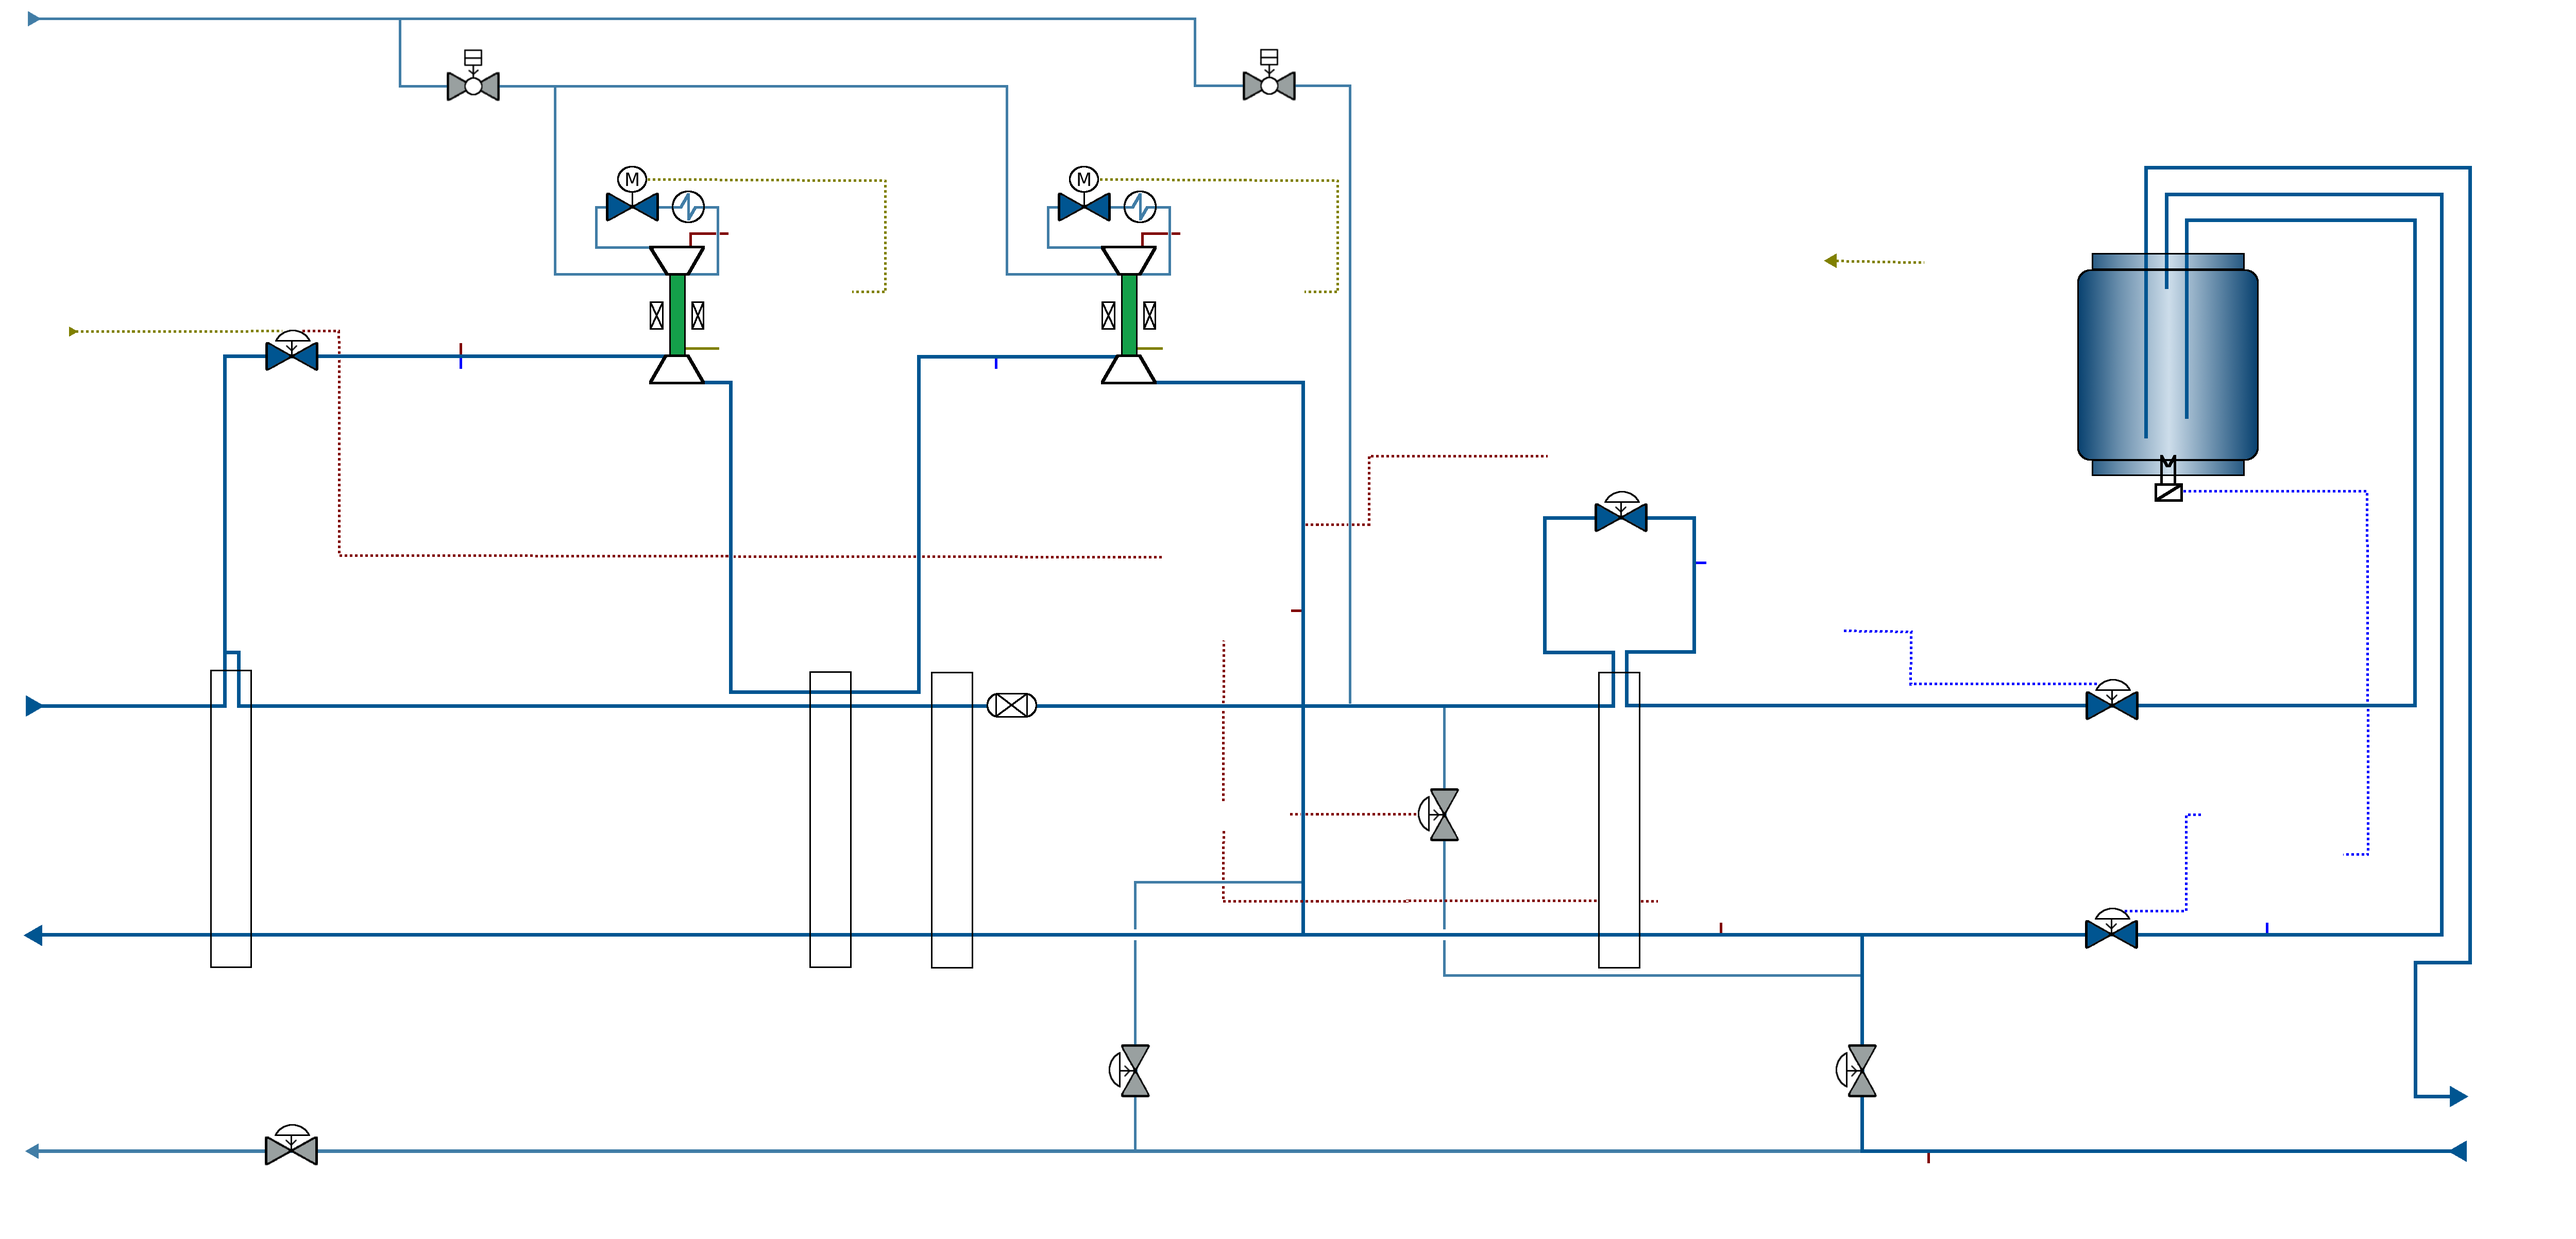
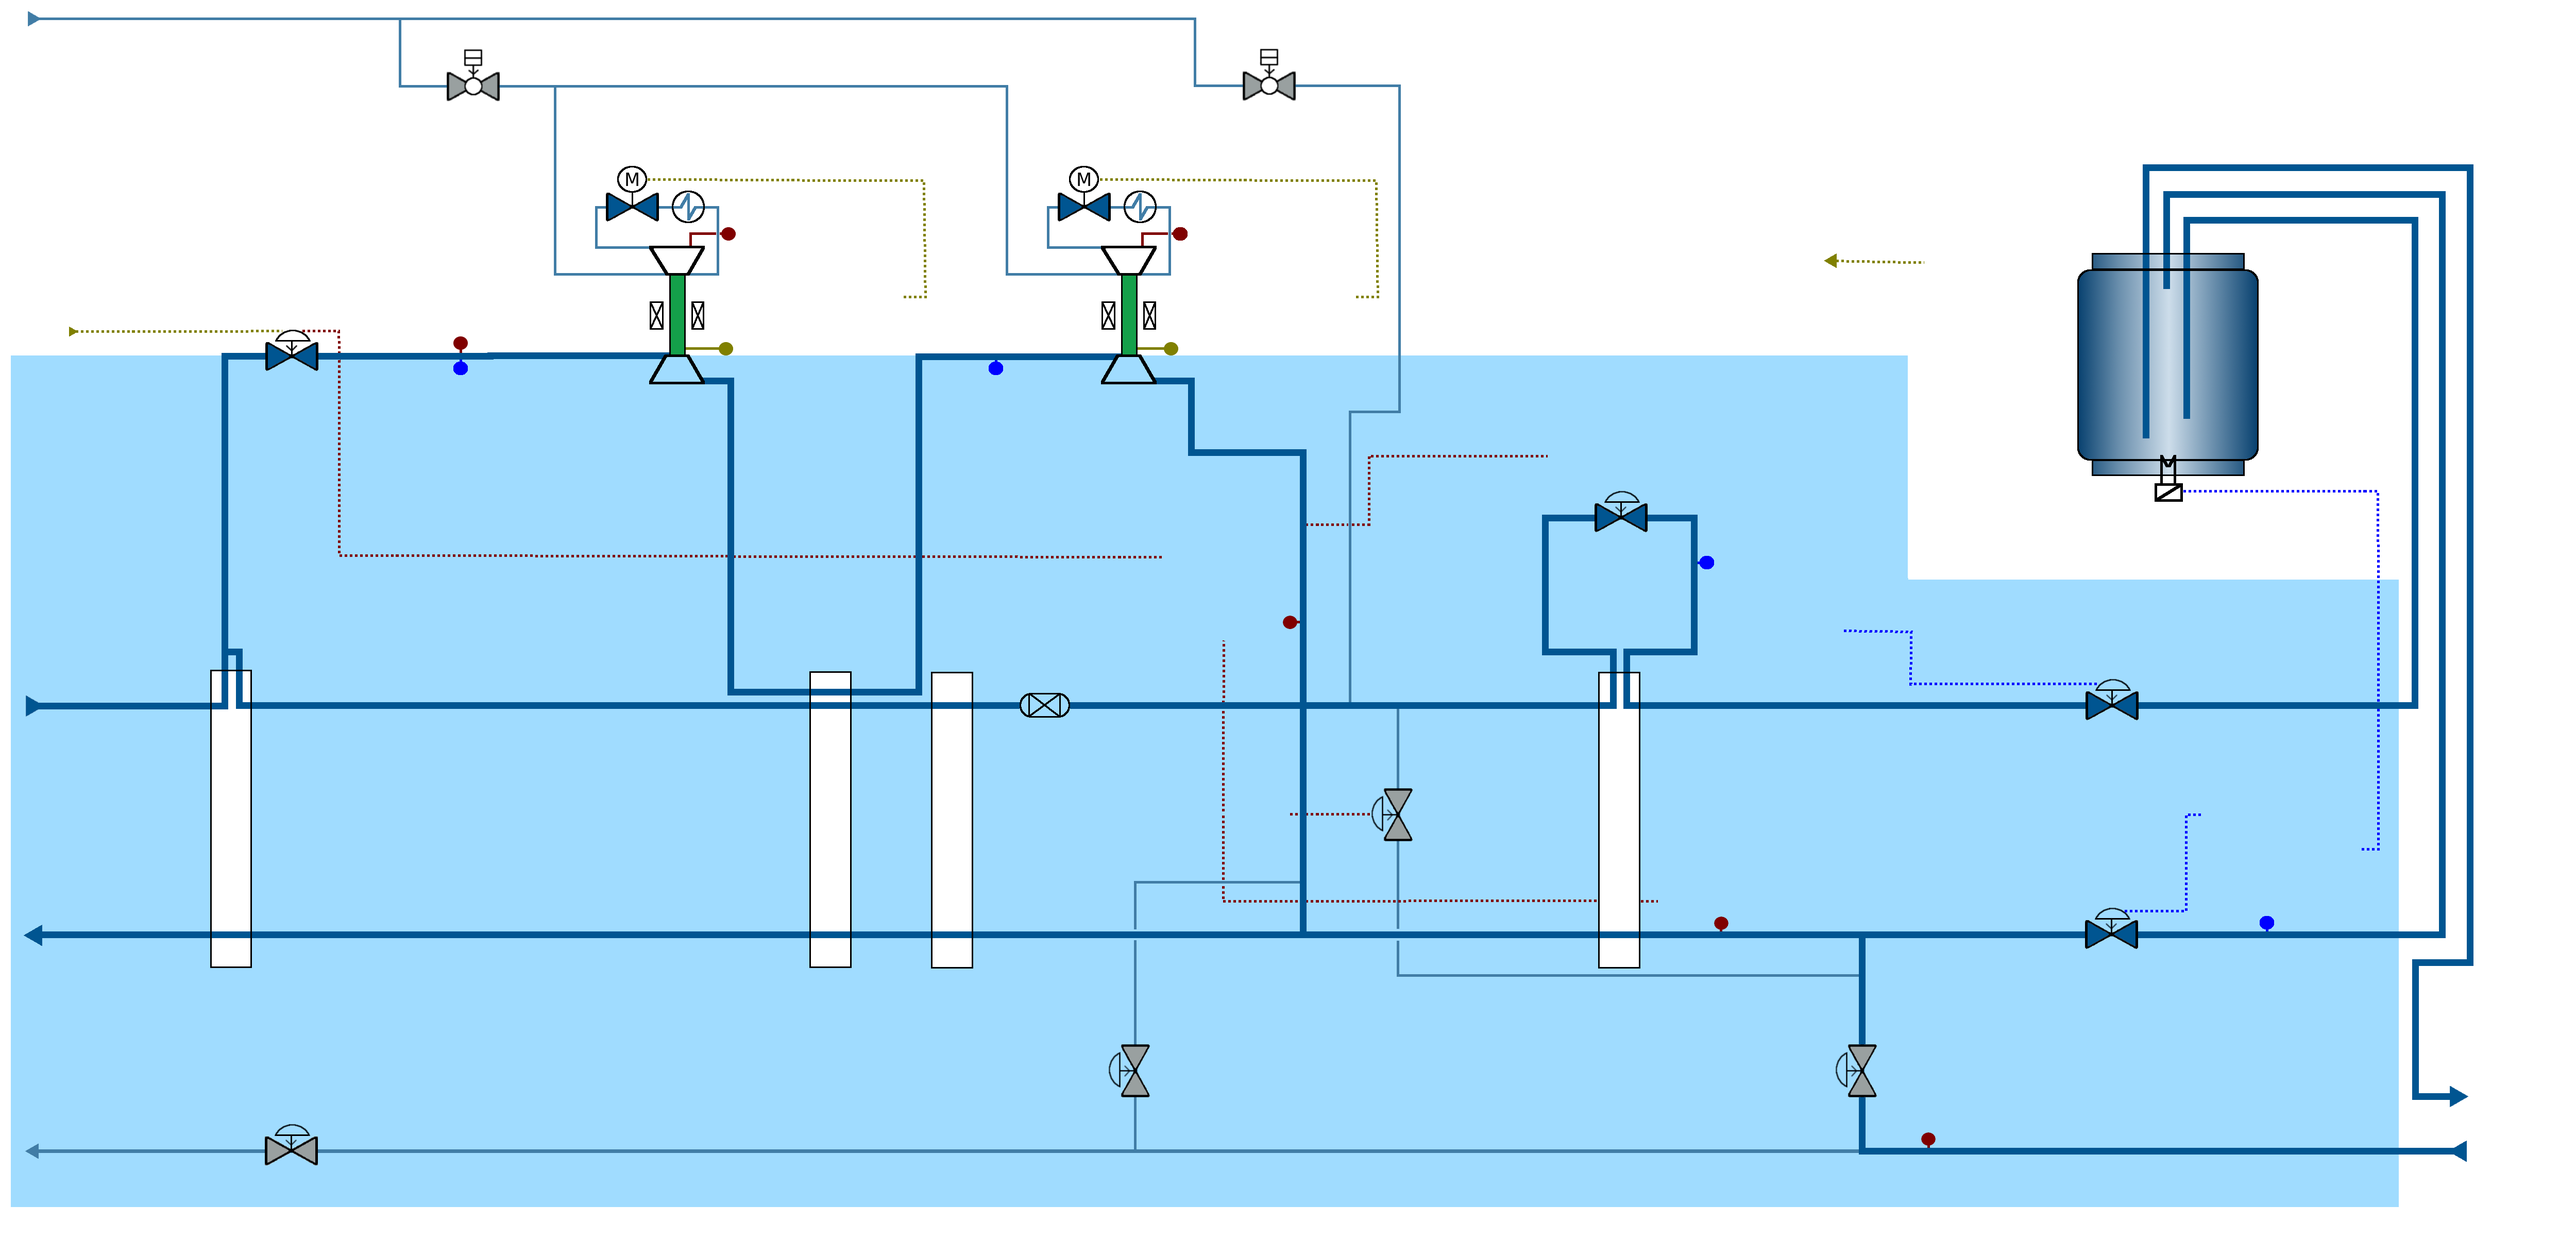
Add CBx 2 Tab to the GUI

diff --git a/pyqt-apps/siriushla/as_cr_control/screen_cbx2.py b/pyqt-apps/siriushla/as_cr_control/screen_cbx2.py
@@ -7,13 +7,13 @@ LABELS_CBX2 = {
     "1552\nCbx1": [0, 70],
     "1228\nCbx1": [0, 87.5],
     "TU1.ML050": [22, 31],
-    "TU2.ML050": [19.75, 19],
-    "AT1.HP050": [19.75, 19],
-    "HP1.010.UPC": [19.75, 19],
-    "LS1.CM015": [19.75, 19],
-    "1921\nMfb": [19.75, 19],
-    "Manifoldbox": [19.75, 19],
-    "1923\nMfb": [19.75, 19],
+    "TU2.ML050": [40.25, 31],
+    "AT1.HP050": [37, 57],
+    "HP1.010.UPC": [67, 17],
+    "LS1.CM015": [80, 9],
+    "1921\nMfb": [93, 85.5],
+    "Manifoldbox": [87, 88],
+    "1923\nMfb": [93, 90],
     "HP1.EQ200": {
         "position": [6.75, 50],
         "shape": "line",
@@ -41,7 +41,7 @@ LABELS_CBX2 = {
     "WP1.QM110": {
         "position": [14, 7.5],
         "shape": "line",
-        "color": COLOR.blue
+        "color": COLOR.dark_blue
     },
     "TU1.050.U.SC": {
         "position": [28, 22],
@@ -51,10 +51,10 @@ LABELS_CBX2 = {
     "WP1.QM010": {
         "position": [45, 7.5],
         "shape": "line",
-        "color": COLOR.blue
+        "color": COLOR.dark_blue
     },
     "TU2.050.U.SC": {
-        "position": [45.5, 22],
+        "position": [45.75, 22],
         "shape": "side_arrows",
         "color": COLOR.gold
     },
@@ -69,29 +69,29 @@ LABELS_CBX2 = {
         "color": COLOR.dark_red
     },
     "TU2.067.U.TDC": {
-        "position": [43, 65],
+        "position": [43, 63.75],
         "shape": "side_arrows",
         "color": COLOR.dark_red
     },
     "HP1.500.U.PC": {
         "position": [66, 49],
         "shape": "side_arrows",
-        "color": COLOR.dark_blue
+        "color": COLOR.blue
     },
     "LS1.010.U.LC": {
-        "position": [16, 75],
+        "position": [73.5, 19.25],
         "shape": "side_arrows",
         "color": COLOR.gold
     },
     "LP1.510.U.PC": {
-        "position": [16, 75],
+        "position": [84.75, 66.5],
         "shape": "side_arrows",
-        "color": COLOR.dark_blue
+        "color": COLOR.blue
     },
     "LP1.511.U.PC": {
-        "position": [16, 75],
+        "position": [84.75, 64],
         "shape": "side_arrows",
-        "color": COLOR.dark_blue
+        "color": COLOR.blue
     }
 }
 
@@ -99,27 +99,27 @@ PVS_CBX2 = {
     "TU1.QN020": {
         "position": [8, 21],
         "pvname": "",
-        "color": COLOR.blue
+        "color": COLOR.dark_blue
     },
     "CD1.QN110": {
         "position": [8, 85],
         "pvname": "",
-        "color": COLOR.blue
+        "color": COLOR.dark_blue
     },
     "TU1.035.T": {
-        "position": [14.5, 22.5],
+        "position": [14.5, 21.75],
         "pvname": "",
         "color": COLOR.dark_red
     },
     "TU1.035.P": {
-        "position": [14.5, 29],
+        "position": [14.5, 29.75],
         "pvname": "",
-        "color": COLOR.dark_blue
+        "color": COLOR.blue
     },
     "TU1.QN050": {
         "position": [21.5, 7.5],
         "pvname": "",
-        "color": COLOR.blue
+        "color": COLOR.dark_blue
     },
     "TU1.050.T": {
         "position": [28.25, 15],
@@ -127,54 +127,54 @@ PVS_CBX2 = {
         "color": COLOR.dark_red
     },
     "TU1.050.S": {
-        "position": [28.25, 26],
+        "position": [28.5, 25.5],
         "pvname": ("",""),
         "color": COLOR.gold
     },
     "TU2.QN050": {
         "position": [39, 7.5],
         "pvname": "",
-        "color": COLOR.blue
-    },
-    "TU2.035.P": {
-        "position": [36, 29],
-        "pvname": "",
         "color": COLOR.dark_blue
     },
+    "TU2.035.P": {
+        "position": [35.5, 29.75],
+        "pvname": "",
+        "color": COLOR.blue
+    },
     "TU2.050.T": {
-        "position": [45.75, 15],
+        "position": [46, 15],
         "pvname": "",
         "color": COLOR.dark_red
     },
     "TU2.050.S": {
-        "position": [45.75, 26],
+        "position": [46.25, 25.5],
         "pvname": ("", ""),
         "color": COLOR.gold
     },
     "TU2.065.T": {
-        "position": [43.25, 48],
+        "position": [43, 48],
         "pvname": "",
         "color": COLOR.dark_red
     },
     "CD1.QN410": {
         "position": [44.5, 83.5],
         "pvname": "",
-        "color": COLOR.blue
+        "color": COLOR.dark_blue
     },
     "HP1.QN500": {
         "position": [59, 34],
         "pvname": "",
-        "color": COLOR.blue
+        "color": COLOR.dark_blue
     },
     "HP1.QN410": {
         "position": [55, 62.5],
         "pvname": "",
-        "color": COLOR.blue
+        "color": COLOR.dark_blue
     },
     "HP1.500.P": {
-        "position": [66, 42],
+        "position": [66.5, 42],
         "pvname": "",
-        "color": COLOR.dark_blue
+        "color": COLOR.blue
     },
     "LP1.510.T": {
         "position": [64, 69],
@@ -182,42 +182,42 @@ PVS_CBX2 = {
         "color": COLOR.dark_red
     },
     "DW1.LS1.010.L": {
-        "position": [4.75, 11],
-        "pvname": "",
+        "position": [73.75, 23],
+        "pvname": ("", ""),
         "color": COLOR.gold
     },
     "DW1.LS1.010.J": {
-        "position": [4.75, 11],
+        "position": [73.75, 40],
         "pvname": "",
         "color": COLOR.black
     },
     "LS1.EB010": {
-        "position": [4.75, 11],
+        "position": [80, 40],
         "pvname": "",
         "color": COLOR.black
     },
     "HP1.QN510": {
-        "position": [4.75, 11],
-        "pvname": "",
-        "color": COLOR.blue
-    },
-    "LP1.QN510": {
-        "position": [4.75, 11],
-        "pvname": "",
-        "color": COLOR.blue
-    },
-    "LP1.510.P": {
-        "position": [4.75, 11],
+        "position": [78, 49],
         "pvname": "",
         "color": COLOR.dark_blue
     },
-    "PR1.QN510": {
-        "position": [4.75, 11],
+    "LP1.QN510": {
+        "position": [77.75, 67],
+        "pvname": "",
+        "color": COLOR.dark_blue
+    },
+    "LP1.510.P": {
+        "position": [85, 69],
         "pvname": "",
         "color": COLOR.blue
     },
+    "PR1.QN510": {
+        "position": [73, 83.5],
+        "pvname": "",
+        "color": COLOR.dark_blue
+    },
     "PR1.510.T": {
-        "position": [4.75, 11],
+        "position": [74.75, 87.5],
         "pvname": "",
         "color": COLOR.dark_red
     }

diff --git a/pyqt-apps/siriushla/as_cr_control/main.py b/pyqt-apps/siriushla/as_cr_control/main.py
@@ -230,6 +230,7 @@ class CryoControl(SiriusMainWindow):
 
             pvname = self.get_pvname(name)
             widget = self.get_pydm_widget(pvname, False)
+            widget.showUnits = True
             widget.setMinimumWidth(150)
             glay.addWidget(widget, *pos)
             pos[0] += 1
